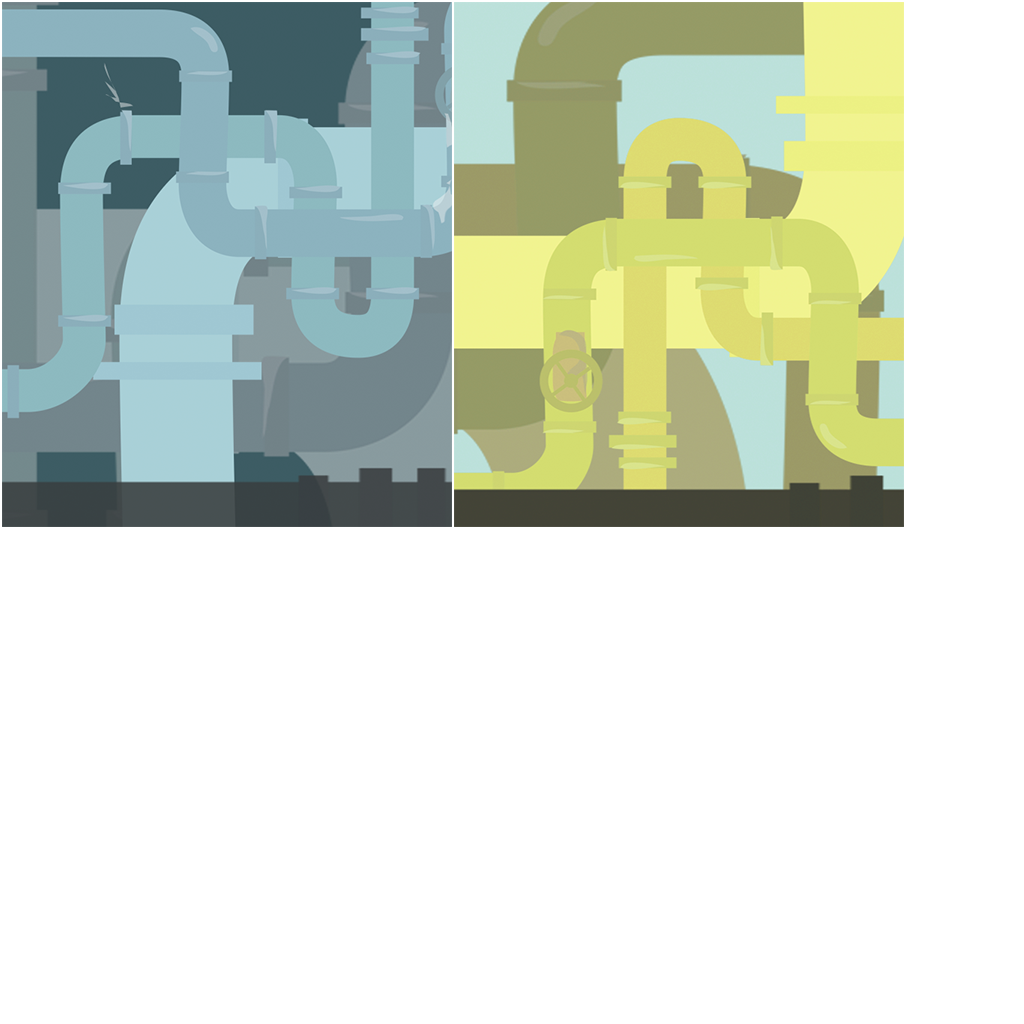
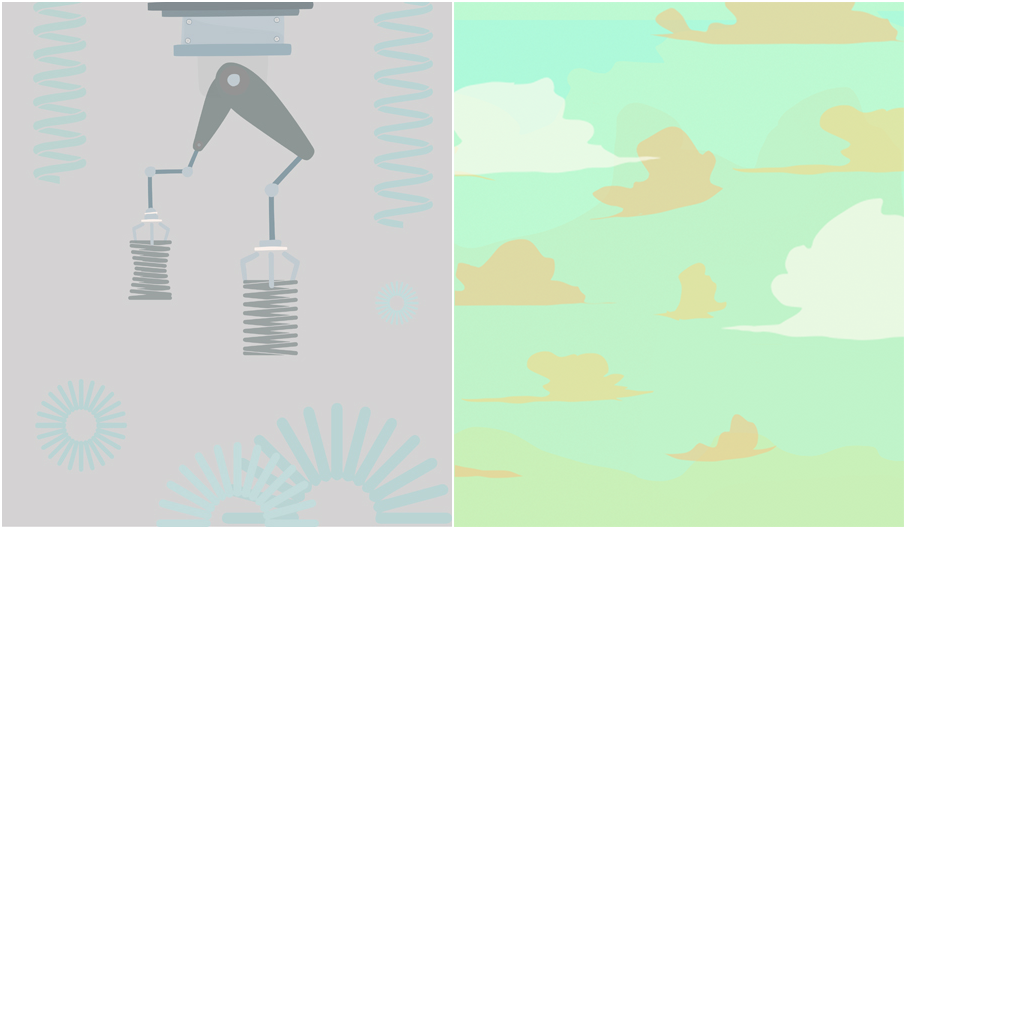
new backgrounds and level definitions

diff --git a/core/src/main/java/ceta/game/managers/LevelsManager.java b/core/src/main/java/ceta/game/managers/LevelsManager.java
@@ -152,17 +152,17 @@ public class LevelsManager {
             switch(levelCharacteristics.representation){
                 case 1:
                     game.setScreen(new Level1HorizontalScreen(
-                            game, lev, getIslandBack(levelCharacteristics.island,levelCharacteristics.isHorizontal)),
+                            game, lev, getIslandBack(levelCharacteristics.island,levelCharacteristics.backgroundNr)),
                             transition);
                     break;
                 case 2:
                     game.setScreen(new Level2HorizontalScreen(
-                                    game, lev, getIslandBack(levelCharacteristics.island,levelCharacteristics.isHorizontal)),
+                                    game, lev, getIslandBack(levelCharacteristics.island,levelCharacteristics.backgroundNr)),
                             transition);
                     break;
                 case 3:
                     game.setScreen(new Level3HorizontalScreen(
-                                    game, lev, getIslandBack(levelCharacteristics.island,levelCharacteristics.isHorizontal)),
+                                    game, lev, getIslandBack(levelCharacteristics.island,levelCharacteristics.backgroundNr)),
                             transition);
                     break;
             }
@@ -170,17 +170,17 @@ public class LevelsManager {
             switch(levelCharacteristics.representation){
                 case 1:
                     game.setScreen(new Level1VerticalScreen(
-                                    game, lev, getIslandBack(levelCharacteristics.island,levelCharacteristics.isHorizontal)),
+                                    game, lev, getIslandBack(levelCharacteristics.island,levelCharacteristics.backgroundNr)),
                             transition);
                     break;
                 case 2:
                     game.setScreen(new Level2VerticalScreen(
-                                    game, lev, getIslandBack(levelCharacteristics.island,levelCharacteristics.isHorizontal)),
+                                    game, lev, getIslandBack(levelCharacteristics.island,levelCharacteristics.backgroundNr)),
                             transition);
                     break;
                 case 3:
                     game.setScreen(new Level3VerticalScreen(
-                                    game, lev, getIslandBack(levelCharacteristics.island,levelCharacteristics.isHorizontal)),
+                                    game, lev, getIslandBack(levelCharacteristics.island,levelCharacteristics.backgroundNr)),
                             transition);
                     break;
             }
@@ -197,17 +197,17 @@ public class LevelsManager {
             switch(levelCharacteristics.representation){
                 case 1:
                     game.setScreen(new Level1HorizontalCvScreen(
-                                    game, lev, getIslandBack(levelCharacteristics.island,levelCharacteristics.isHorizontal)),
+                                    game, lev, getIslandBack(levelCharacteristics.island,levelCharacteristics.backgroundNr)),
                             transition);
                     break;
                 case 2:
                     game.setScreen(new Level2HorizontalCvScreen(
-                                    game, lev, getIslandBack(levelCharacteristics.island,levelCharacteristics.isHorizontal)),
+                                    game, lev, getIslandBack(levelCharacteristics.island,levelCharacteristics.backgroundNr)),
                             transition);
                     break;
                 case 3:
                     game.setScreen(new Level3HorizontalCvScreen(
-                                    game, lev, getIslandBack(levelCharacteristics.island,levelCharacteristics.isHorizontal)),
+                                    game, lev, getIslandBack(levelCharacteristics.island,levelCharacteristics.backgroundNr)),
                             transition);
                     break;
             }
@@ -215,17 +215,17 @@ public class LevelsManager {
             switch(levelCharacteristics.representation){
                 case 1:
                     game.setScreen(new Level1VerticalCvScreen(
-                                    game, lev, getIslandBack(levelCharacteristics.island,levelCharacteristics.isHorizontal)),
+                                    game, lev, getIslandBack(levelCharacteristics.island,levelCharacteristics.backgroundNr)),
                             transition);
                     break;
                 case 2:
                     game.setScreen(new Level2VerticalCvScreen(
-                                    game, lev, getIslandBack(levelCharacteristics.island,levelCharacteristics.isHorizontal)),
+                                    game, lev, getIslandBack(levelCharacteristics.island,levelCharacteristics.backgroundNr)),
                             transition);
                     break;
                 case 3:
                     game.setScreen(new Level3VerticalCvScreen(
-                                    game, lev, getIslandBack(levelCharacteristics.island,levelCharacteristics.isHorizontal)),
+                                    game, lev, getIslandBack(levelCharacteristics.island,levelCharacteristics.backgroundNr)),
                             transition);
                     break;
             }
@@ -244,43 +244,63 @@ public class LevelsManager {
 
     }
 
-    private TextureAtlas.AtlasRegion getIslandBack(int islandNr, boolean isHorizontal){
-        if(isHorizontal){ // HORIZONTAL
-            switch (islandNr){
-                case 1:
-                    return Assets.instance.staticBackground.city1;
-                case 2:
-                    return Assets.instance.staticBackground.city3;
-                case 3:
-                    return Assets.instance.staticBackground.tubes1;
-                case 4:
-                    return Assets.instance.staticBackground.tubes2;
-                case 5:
-                    return Assets.instance.staticBackground.tubes3;
-                case 6:
-                    return Assets.instance.staticBackground.tubes4;
-                default:
-                    return Assets.instance.staticBackground.tubes5;
-            }
-
-        }
-        else{ // VERTICAL
-            switch (islandNr){
-                case 1:
-                    return Assets.instance.staticBackground.city4;
-                case 2:
-                    return Assets.instance.staticBackground.city2;
-                case 3:
-                    return Assets.instance.staticBackground.clouds1;
-                case 4:
-                    return Assets.instance.staticBackground.clouds3;
-                case 5:
-                    return Assets.instance.staticBackground.clouds2;
-                case 6:
-                    return Assets.instance.staticBackground.clouds4;
-                default:
-                    return Assets.instance.staticBackground.clouds2;
-            }
+    private TextureAtlas.AtlasRegion getIslandBack(int islandNr, int backgroundNr){
+        String islandBack = islandNr+"-"+backgroundNr;
+        switch (islandBack) {
+            case "1-1": //city
+                return Assets.instance.staticBackground.city1;
+            case "1-2":
+                return Assets.instance.staticBackground.city2;
+            case "1-3":
+                return Assets.instance.staticBackground.city3;
+            case "1-4":
+                return Assets.instance.staticBackground.city3;
+            case "2-1": // clouds
+                return Assets.instance.staticBackground.clouds1;
+            case "2-2":
+                return Assets.instance.staticBackground.clouds2;
+            case "2-3":
+                return Assets.instance.staticBackground.clouds3;
+            case "2-4":
+                return Assets.instance.staticBackground.clouds4;
+            case "3-1": //tubes
+                return Assets.instance.staticBackground.tubes1;
+            case "3-2":
+                return Assets.instance.staticBackground.tubes2;
+            case "3-3":
+                return Assets.instance.staticBackground.tubes3;
+            case "3-4":
+                return Assets.instance.staticBackground.tubes4;
+            case "4-1": // underwater
+                return Assets.instance.staticBackground.sea1;
+            case "4-2":
+                return Assets.instance.staticBackground.sea2;
+            case "4-3":
+                return Assets.instance.staticBackground.sea3;
+            case "4-4":
+                return Assets.instance.staticBackground.sea4;
+            case "4-5":
+                return Assets.instance.staticBackground.sea5;
+            case "5-1": // factory
+                return Assets.instance.staticBackground.factory1;
+            case "5-2":
+                return Assets.instance.staticBackground.factory2;
+            case "5-3":
+                return Assets.instance.staticBackground.factory3;
+            case "5-4":
+                return Assets.instance.staticBackground.factory4;
+            case "5-5":
+                return Assets.instance.staticBackground.factory5;
+            case "6-1": //battle
+                return Assets.instance.staticBackground.battle1;
+            case "6-2":
+                return Assets.instance.staticBackground.battle2;
+            case "6-3":
+                return Assets.instance.staticBackground.battle3;
+            case "6-4":
+                return Assets.instance.staticBackground.battle4;
+            default:
+                return Assets.instance.staticBackground.tubes5;
 
         }
     }

diff --git a/core/src/main/java/ceta/game/util/Constants.java b/core/src/main/java/ceta/game/util/Constants.java
@@ -5,7 +5,7 @@ package ceta.game.util;
  * Created by ewe on 7/25/16.
  */
 public class Constants {
-    public static final boolean WITH_CV = true;
+    public static final boolean WITH_CV = false;
 
     public static final int MARGIN_FADE  = 100;
     public static final int COUNTDOWN_MAX = 1; // in seconds
@@ -24,20 +24,20 @@ public class Constants {
     public static final int BASE = 40;
     public static final int ERRORS_FOR_HINT = 2;
 
-    public static final int L1_COMPLETED_NR = 7; // 7 = last level, 8 first level in L2
-    public static final int L2_COMPLETED_NR = 18;
-    public static final int L3_COMPLETED_NR = 29;
-    public static final int L4_COMPLETED_NR = 40;
-    public static final int L5_COMPLETED_NR = 54;
-    public static final int L6_COMPLETED_NR = 70;
+    public static final int L1_COMPLETED_NR = 4; // 7 = last level, 8 first level in L2
+    public static final int L2_COMPLETED_NR = 8;
+    public static final int L3_COMPLETED_NR = 12;
+    public static final int L4_COMPLETED_NR = 17;
+    public static final int L5_COMPLETED_NR = 22;
+    public static final int L6_COMPLETED_NR = 26;
     public static final int LAST_LEVEL_NR = L6_COMPLETED_NR;
 
-    public static final int L1_HALF_COMPLETED_NR = 4; // 4 = last level, 5 first level in L1
-    public static final int L2_HALF_COMPLETED_NR = 13;
-    public static final int L3_HALF_COMPLETED_NR = 24;
-    public static final int L4_HALF_COMPLETED_NR = 35;
-    public static final int L5_HALF_COMPLETED_NR = 47;
-    public static final int L6_HALF_COMPLETED_NR = 62;
+    public static final int L1_HALF_COMPLETED_NR = L1_COMPLETED_NR-2;
+    public static final int L2_HALF_COMPLETED_NR = L2_COMPLETED_NR-2;
+    public static final int L3_HALF_COMPLETED_NR = L3_COMPLETED_NR-2;
+    public static final int L4_HALF_COMPLETED_NR = L4_COMPLETED_NR-2;
+    public static final int L5_HALF_COMPLETED_NR = L5_COMPLETED_NR-2;
+    public static final int L6_HALF_COMPLETED_NR = L6_COMPLETED_NR-2;
 
     public static final int NO_MOVEMENT_DIST = 25;
 

diff --git a/core/src/main/java/ceta/game/game/Assets.java b/core/src/main/java/ceta/game/game/Assets.java
@@ -201,6 +201,7 @@ public class Assets implements Disposable, AssetErrorListener {
         public final TextureAtlas.AtlasRegion clouds1,clouds2,clouds3,clouds4;
         public final TextureAtlas.AtlasRegion tubes1, tubes2,tubes3,tubes4,tubes5;
         public final TextureAtlas.AtlasRegion belowTheGround;
+        public final TextureAtlas.AtlasRegion sea1, sea2, sea3, sea4, sea5, factory1, factory2, factory3, factory4, factory5, battle1, battle2, battle3, battle4;
 
         public AssetStaticBackground (TextureAtlas atlas) {
             backStart = atlas.findRegion("inicio");
@@ -221,6 +222,24 @@ public class Assets implements Disposable, AssetErrorListener {
             tubes3 = atlas.findRegion("tubo03");
             tubes4 = atlas.findRegion("tubo04");
             tubes5 = atlas.findRegion("tubo02B");
+
+            sea1 = atlas.findRegion("mar-1");
+            sea2 = atlas.findRegion("mar-1");
+            sea3 = atlas.findRegion("mar-1");
+            sea4 = atlas.findRegion("mar-2");
+            sea5 = atlas.findRegion("mar-2");
+
+            factory1 = atlas.findRegion("fabrica-1");
+            factory2 = atlas.findRegion("fabrica-1");
+            factory3 = atlas.findRegion("fabrica-1");
+            factory4 = atlas.findRegion("fabrica-2");
+            factory5 = atlas.findRegion("fabrica-2");
+
+            battle1 = atlas.findRegion("batalla-1");
+            battle2 = atlas.findRegion("batalla-2");
+            battle3 = atlas.findRegion("batalla-3");
+            battle4 = atlas.findRegion("batalla-4");
+
 
             belowTheGround= atlas.findRegion("abajo5");
         }

diff --git a/core/src/main/java/ceta/game/screens/RepeatLevelScreen.java b/core/src/main/java/ceta/game/screens/RepeatLevelScreen.java
@@ -3,6 +3,7 @@ package ceta.game.screens;
 import ceta.game.game.Assets;
 import ceta.game.game.objects.Gear;
 import ceta.game.transitions.ScreenTransitionFade;
+import ceta.game.util.AudioManager;
 import ceta.game.util.Constants;
 import com.badlogic.gdx.Gdx;
 import com.badlogic.gdx.InputProcessor;
@@ -30,6 +31,7 @@ public class RepeatLevelScreen extends AbstractGameScreen {
     private int gearsNr = 5;
     private boolean moveToNextLevel;
 
+
     public RepeatLevelScreen(DirectedGame game) {
         super(game);
     }
@@ -53,6 +55,7 @@ public class RepeatLevelScreen extends AbstractGameScreen {
             game.getLevelsManager().goToUncompletedLevel();
             moveToNextLevel = false;
         }
+
         //blue!
         //Gdx.gl.glClearColor(0x64 / 255.0f, 0x95 / 255.0f,0xed / 255.0f, 0xff / 255.0f);
         Gdx.gl.glClearColor(98 / 255.0f, 151/255.0f , 173/ 255.0f, 1);
@@ -73,6 +76,7 @@ public class RepeatLevelScreen extends AbstractGameScreen {
     public void show() {
         stage = new Stage(new FitViewport(Constants.VIEWPORT_WIDTH, Constants.VIEWPORT_HEIGHT));
         Gdx.input.setCatchBackKey(true); // from congrats you con go to menu
+        AudioManager.instance.playWithoutInterruption(Assets.instance.sounds.repeatLevel);
         buildStage();
     }
 
@@ -98,7 +102,6 @@ public class RepeatLevelScreen extends AbstractGameScreen {
             //gear = new Gear();
             stage.addActor(new Gear(i));
         }
-
 
         stage.addActor(repeat);
         repeat.setOrigin(repeat.getWidth() / 2, repeat.getHeight() / 2);

diff --git a/core/src/main/java/ceta/game/util/LevelsCsv.java b/core/src/main/java/ceta/game/util/LevelsCsv.java
@@ -14,7 +14,7 @@ public class LevelsCsv {
     private String[] csvLines;
 
     private LevelsCsv () {
-        FileHandle levelsFile = Gdx.files.internal(Constants.LEVELS_FOLDER+"/levels.csv");
+        FileHandle levelsFile = Gdx.files.internal(Constants.LEVELS_FOLDER+"/levels-fer.csv");
         String csvContentString = levelsFile.readString();
         csvLines = csvContentString.split("\n");
         Gdx.app.log(TAG,"csvContentString "+csvContentString);
@@ -69,6 +69,7 @@ public class LevelsCsv {
         levelCharacteristics.island = Integer.parseInt(splittedLine[0]); //first column
         levelCharacteristics.representation = Integer.parseInt(splittedLine[1]); //second column
         levelCharacteristics.isHorizontal = (splittedLine[2].trim().equals("H") || splittedLine[2].trim().equals("h")); //third column
+        levelCharacteristics.backgroundNr = Integer.parseInt(splittedLine[10]);
         return levelCharacteristics;
 
     }

diff --git a/core/src/main/java/ceta/game/game/levels/LevelCharacteristics.java b/core/src/main/java/ceta/game/game/levels/LevelCharacteristics.java
@@ -11,8 +11,9 @@ public class LevelCharacteristics {
     public int island;
     public int representation;
     public boolean isHorizontal;
+    public int backgroundNr;
 
     public void printLevelCharacteristics(){
-        Gdx.app.log(TAG, "island "+island + "rep "+representation+" isH "+isHorizontal);
+        Gdx.app.log(TAG, "island "+island + "rep "+representation+" isH "+isHorizontal+" backgroundNr "+backgroundNr);
     }
 }

diff --git a/core/src/main/java/ceta/game/game/controllers/AbstractWorldController.java b/core/src/main/java/ceta/game/game/controllers/AbstractWorldController.java
@@ -189,7 +189,6 @@ public abstract class  AbstractWorldController extends InputAdapter implements D
     }
 
     public void goToRepeatLevelScreen(){
-        AudioManager.instance.play(Assets.instance.sounds.repeatLevel);
         game.setScreen(new RepeatLevelScreen(game),oneSegFadeIn);
     }
 
